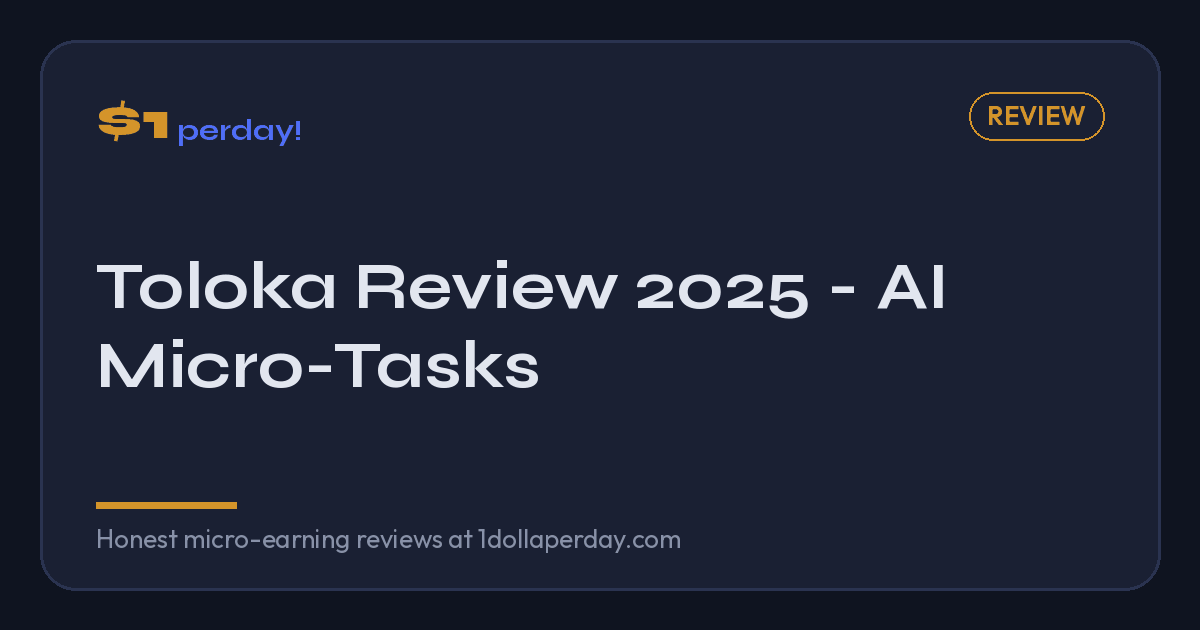
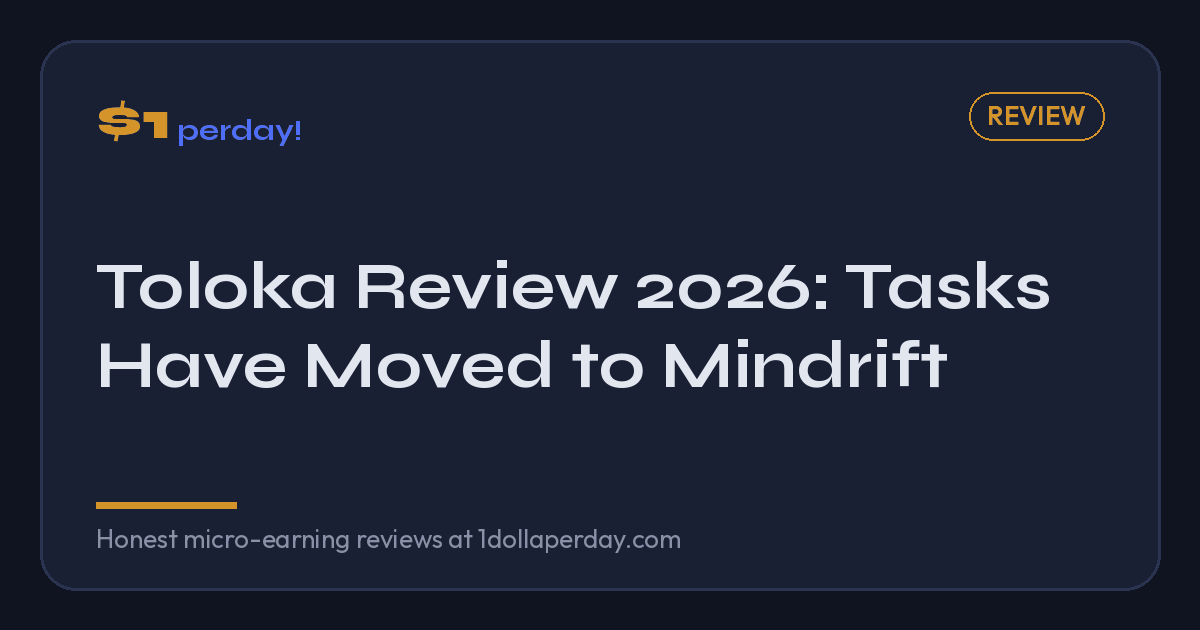
Toloka: tasks moved to Mindrift, ownership no longer Yandex; Clickworker: minimums per its help centre (€10 PayPal/SEPA, $10 ACH, €20 Payoneer)

Changed region(s): [[0.0925, 0.5429, 0.8017, 0.6333], [0.6167, 0.4222, 0.8942, 0.5127]]

diff --git a/reviews/toloka.html b/reviews/toloka.html
@@ -19,14 +19,14 @@
     <meta charset="UTF-8">
     <meta name="viewport" content="width=device-width, initial-scale=1.0">
 
-    <title>Toloka Review 2025 - AI Micro-Tasks by Yandex | $1perday!</title>
-    <meta name="description" content="Honest Toloka review 2025. Micro-task platform by Yandex for AI training data. Low $0.02 minimum payout. Is it worth it?">
-    <meta name="keywords" content="Toloka review, Toloka legit, Yandex Toloka, AI tasks, micro tasks 2025">
+    <title>Toloka Review 2026: Tasks Have Moved to Mindrift | $1perday!</title>
+    <meta name="description" content="Toloka's micro-tasks for AI training have moved to Mindrift. What changed, who owns Toloka now, and what our original review found.">
+    <meta name="keywords" content="Toloka review, Toloka Mindrift, Toloka legit, AI tasks, micro tasks 2026">
 
     <link rel="canonical" href="https://1dollaperday.com/reviews/toloka">
 
     <meta property="og:title" content="Toloka Review 2025 - AI Micro-Tasks">
-    <meta property="og:description" content="Toloka by Yandex offers AI training micro-tasks with incredibly low $0.02 minimum payout.">
+    <meta property="og:description" content="Toloka's micro-tasks for AI training have moved to Mindrift. What changed, who owns Toloka now, and what our original review found.">
     <meta property="og:type" content="article">
     <meta property="og:url" content="https://1dollaperday.com/reviews/toloka">
     <meta property="og:site_name" content="$1perday!">
@@ -36,7 +36,7 @@
     <meta property="og:image:alt" content="Toloka Review 2025 - AI Micro-Tasks">
     <meta name="twitter:card" content="summary_large_image">
     <meta name="twitter:title" content="Toloka Review 2025 - AI Micro-Tasks">
-    <meta name="twitter:description" content="Toloka by Yandex offers AI training micro-tasks with incredibly low $0.02 minimum payout.">
+    <meta name="twitter:description" content="Toloka's micro-tasks for AI training have moved to Mindrift. What changed, who owns Toloka now, and what our original review found.">
     <meta name="twitter:image" content="https://1dollaperday.com/assets/og/reviews--toloka.png">
 
     <link rel="preconnect" href="https://fonts.googleapis.com">
@@ -56,9 +56,9 @@
         "itemReviewed": {"@type": "WebSite", "name": "Toloka", "url": "https://toloka.ai"},
         "author": {"@type": "Organization", "name": "$1perday!"},
         "reviewRating": {"@type": "Rating", "ratingValue": "7.5", "bestRating": "10", "worstRating": "1"},
-        "reviewBody": "Toloka by Yandex is a micro-task platform for AI data labeling with an incredibly low $0.02 minimum payout.",
+        "reviewBody": "Toloka was a micro-task platform for AI data labeling. Its tasks moved to Mindrift in 2026.",
         "datePublished": "2025-01-01",
-        "dateModified": "2026-02-03",
+        "dateModified": "2026-10-24",
         "publisher": {"@type": "Organization", "name": "$1perday!"}
     }
     </script>
@@ -114,7 +114,7 @@
             <article class="article">
                 <header class="review-header">
                     <div class="review-title-section">
-                        <span class="last-updated">Updated January 2025</span>
+                        <span class="last-updated">Updated October 2026</span>
                         <h1>Toloka Review</h1>
                         <p class="article-meta">Category: Micro-Tasks / AI</p>
                     </div>
@@ -128,8 +128,13 @@
                 </header>
 
                 <div class="article-content">
+                    <div class="info-box warning">
+                        <p class="info-box-title">Update October 2026: Toloka tasks are now on Mindrift</p>
+                        <p style="margin-bottom: 0;">Toloka's tasker pages now redirect to <a href="https://mindrift.ai/welcome" target="_blank" rel="noopener nofollow">Mindrift</a>, which says "the tasks and projects from Toloka and Toloka Annotators have moved to Mindrift" with the same payments. Toloka itself is no longer part of Yandex: after Yandex split off its international business, Toloka sits with Amsterdam-based Nebius, and in May 2025 Bezos Expeditions led a $72 million investment that gave Toloka more independence. The $0.02 minimum and payment methods below describe the old Toloka app; check Mindrift's current payout rules before signing up.</p>
+                    </div>
+
                     <div class="quick-answer" id="quick-answer">
-                        <p>Toloka is a legitimate micro-task platform by Yandex specializing in AI training data — image labeling, text classification, and data verification. It has a very low $0.02 minimum payout but tasks require attention to detail to maintain quality scores. Rating: 7.5/10 — good for methodical earners comfortable with repetitive tasks.</p>
+                        <p>Toloka is a legitimate micro-task platform specializing in AI training data — image labeling, text classification, and data verification. It has a very low $0.02 minimum payout but tasks require attention to detail to maintain quality scores. Rating: 7.5/10 — good for methodical earners comfortable with repetitive tasks.</p>
                     </div>
 
                     <div class="quick-facts">
@@ -149,7 +154,7 @@
                             </div>
                             <div class="quick-fact">
                                 <span class="quick-fact-label">Parent Company</span>
-                                <span class="quick-fact-value">Yandex</span>
+                                <span class="quick-fact-value">Independent (Nebius majority stake)</span>
                             </div>
                             <div class="quick-fact">
                                 <span class="quick-fact-label">Available</span>
@@ -165,7 +170,7 @@
 
                     <section>
                         <h2>What is Toloka?</h2>
-                        <p>Toloka is a crowdsourcing platform owned by Yandex (the "Google of Russia") that pays people to complete micro-tasks used for training AI and machine learning systems. Tasks include image labeling, audio transcription, content moderation, and data validation.</p>
+                        <p>Toloka is a crowdsourcing platform, originally built by Yandex and now an independent Amsterdam-based company, that pays people to complete micro-tasks used for training AI and machine learning systems. Tasks include image labeling, audio transcription, content moderation, and data validation.</p>
 
                         <p>What makes Toloka unique is its incredibly low $0.02 minimum payout - the lowest in the industry. You can literally cash out after completing a handful of tasks, making it zero-risk to try.</p>
 
@@ -234,7 +239,7 @@
                                 <h4>Pros</h4>
                                 <ul>
                                     <li>Incredibly low $0.02 minimum</li>
-                                    <li>Backed by Yandex (major company)</li>
+                                    <li>Backed by Nebius and a 2025 round led by Bezos Expeditions</li>
                                     <li>Tasks always available</li>
                                     <li>Mobile app available</li>
                                     <li>Worldwide access</li>

diff --git a/reviews/clickworker.html b/reviews/clickworker.html
@@ -67,7 +67,7 @@
         },
         "reviewBody": "Clickworker provides access to UHRS and various micro-tasks including AI training data. Work availability varies but it's a legitimate platform for those willing to grind.",
         "datePublished": "2025-01-01",
-        "dateModified": "2026-02-03",
+        "dateModified": "2026-10-24",
         "publisher": {"@type": "Organization", "name": "$1perday!"}
     }
     </script>
@@ -166,11 +166,11 @@
                             </div>
                             <div class="quick-fact">
                                 <span class="quick-fact-label">Min Payout</span>
-                                <span class="quick-fact-value">$5 (SEPA) / $10 (PayPal)</span>
+                                <span class="quick-fact-value">€10/$10 (PayPal, SEPA, ACH) / €20 (Payoneer)</span>
                             </div>
                             <div class="quick-fact">
                                 <span class="quick-fact-label">Payment Methods</span>
-                                <span class="quick-fact-value">PayPal, SEPA, Payoneer</span>
+                                <span class="quick-fact-value">PayPal, SEPA, ACH, Payoneer, bank transfer</span>
                             </div>
                             <div class="quick-fact">
                                 <span class="quick-fact-label">Available</span>
@@ -299,9 +299,9 @@
                             <p class="info-box-title">Payment Schedule</p>
                             <ul>
                                 <li><strong>Processing:</strong> Every Wednesday</li>
-                                <li><strong>PayPal minimum:</strong> $10 (or $5 with verified account)</li>
-                                <li><strong>SEPA minimum:</strong> €5</li>
-                                <li><strong>Payoneer minimum:</strong> $10</li>
+                                <li><strong>PayPal minimum:</strong> €10</li>
+                                <li><strong>SEPA minimum:</strong> €10 (EU only); <strong>ACH:</strong> $10 (US only)</li>
+                                <li><strong>Payoneer minimum:</strong> €20 or $20; direct bank transfer (a few non-EU countries) €20. Payouts run weekly, Wednesday to Friday, and smaller balances roll over.</li>
                             </ul>
                         </div>
                     </section>
@@ -422,6 +422,10 @@
                     
                 </div>
 
+                <div class="sidebar-widget">
+                    <h3>Sources</h3>
+                    <p class="text-small">Payout methods and minimums checked against the <a href="https://support-workplace.clickworker.com/support/solutions/articles/80000672350" target="_blank" rel="noopener nofollow">Clickworker help centre</a> on 24 October 2026.</p>
+                </div>
                 <div class="sidebar-widget">
                     <h3>In This Review</h3>
                     <ul>

diff --git a/reviews/index.html b/reviews/index.html
@@ -987,7 +987,7 @@
                                 </div>
                                 <p class="review-card-summary">Major micro-task platform with access to UHRS. More tasks available than MTurk for international users. Great complement to other platforms.</p>
                                 <div class="review-card-meta">
-                                    <span>Min Payout: $5</span>
+                                    <span>Min Payout: €10 / $10</span>
                                     <span>Payment: PayPal, SEPA</span>
                                 </div>
                                 <a href="clickworker" class="review-card-link">Read Full Review &rarr;</a>
